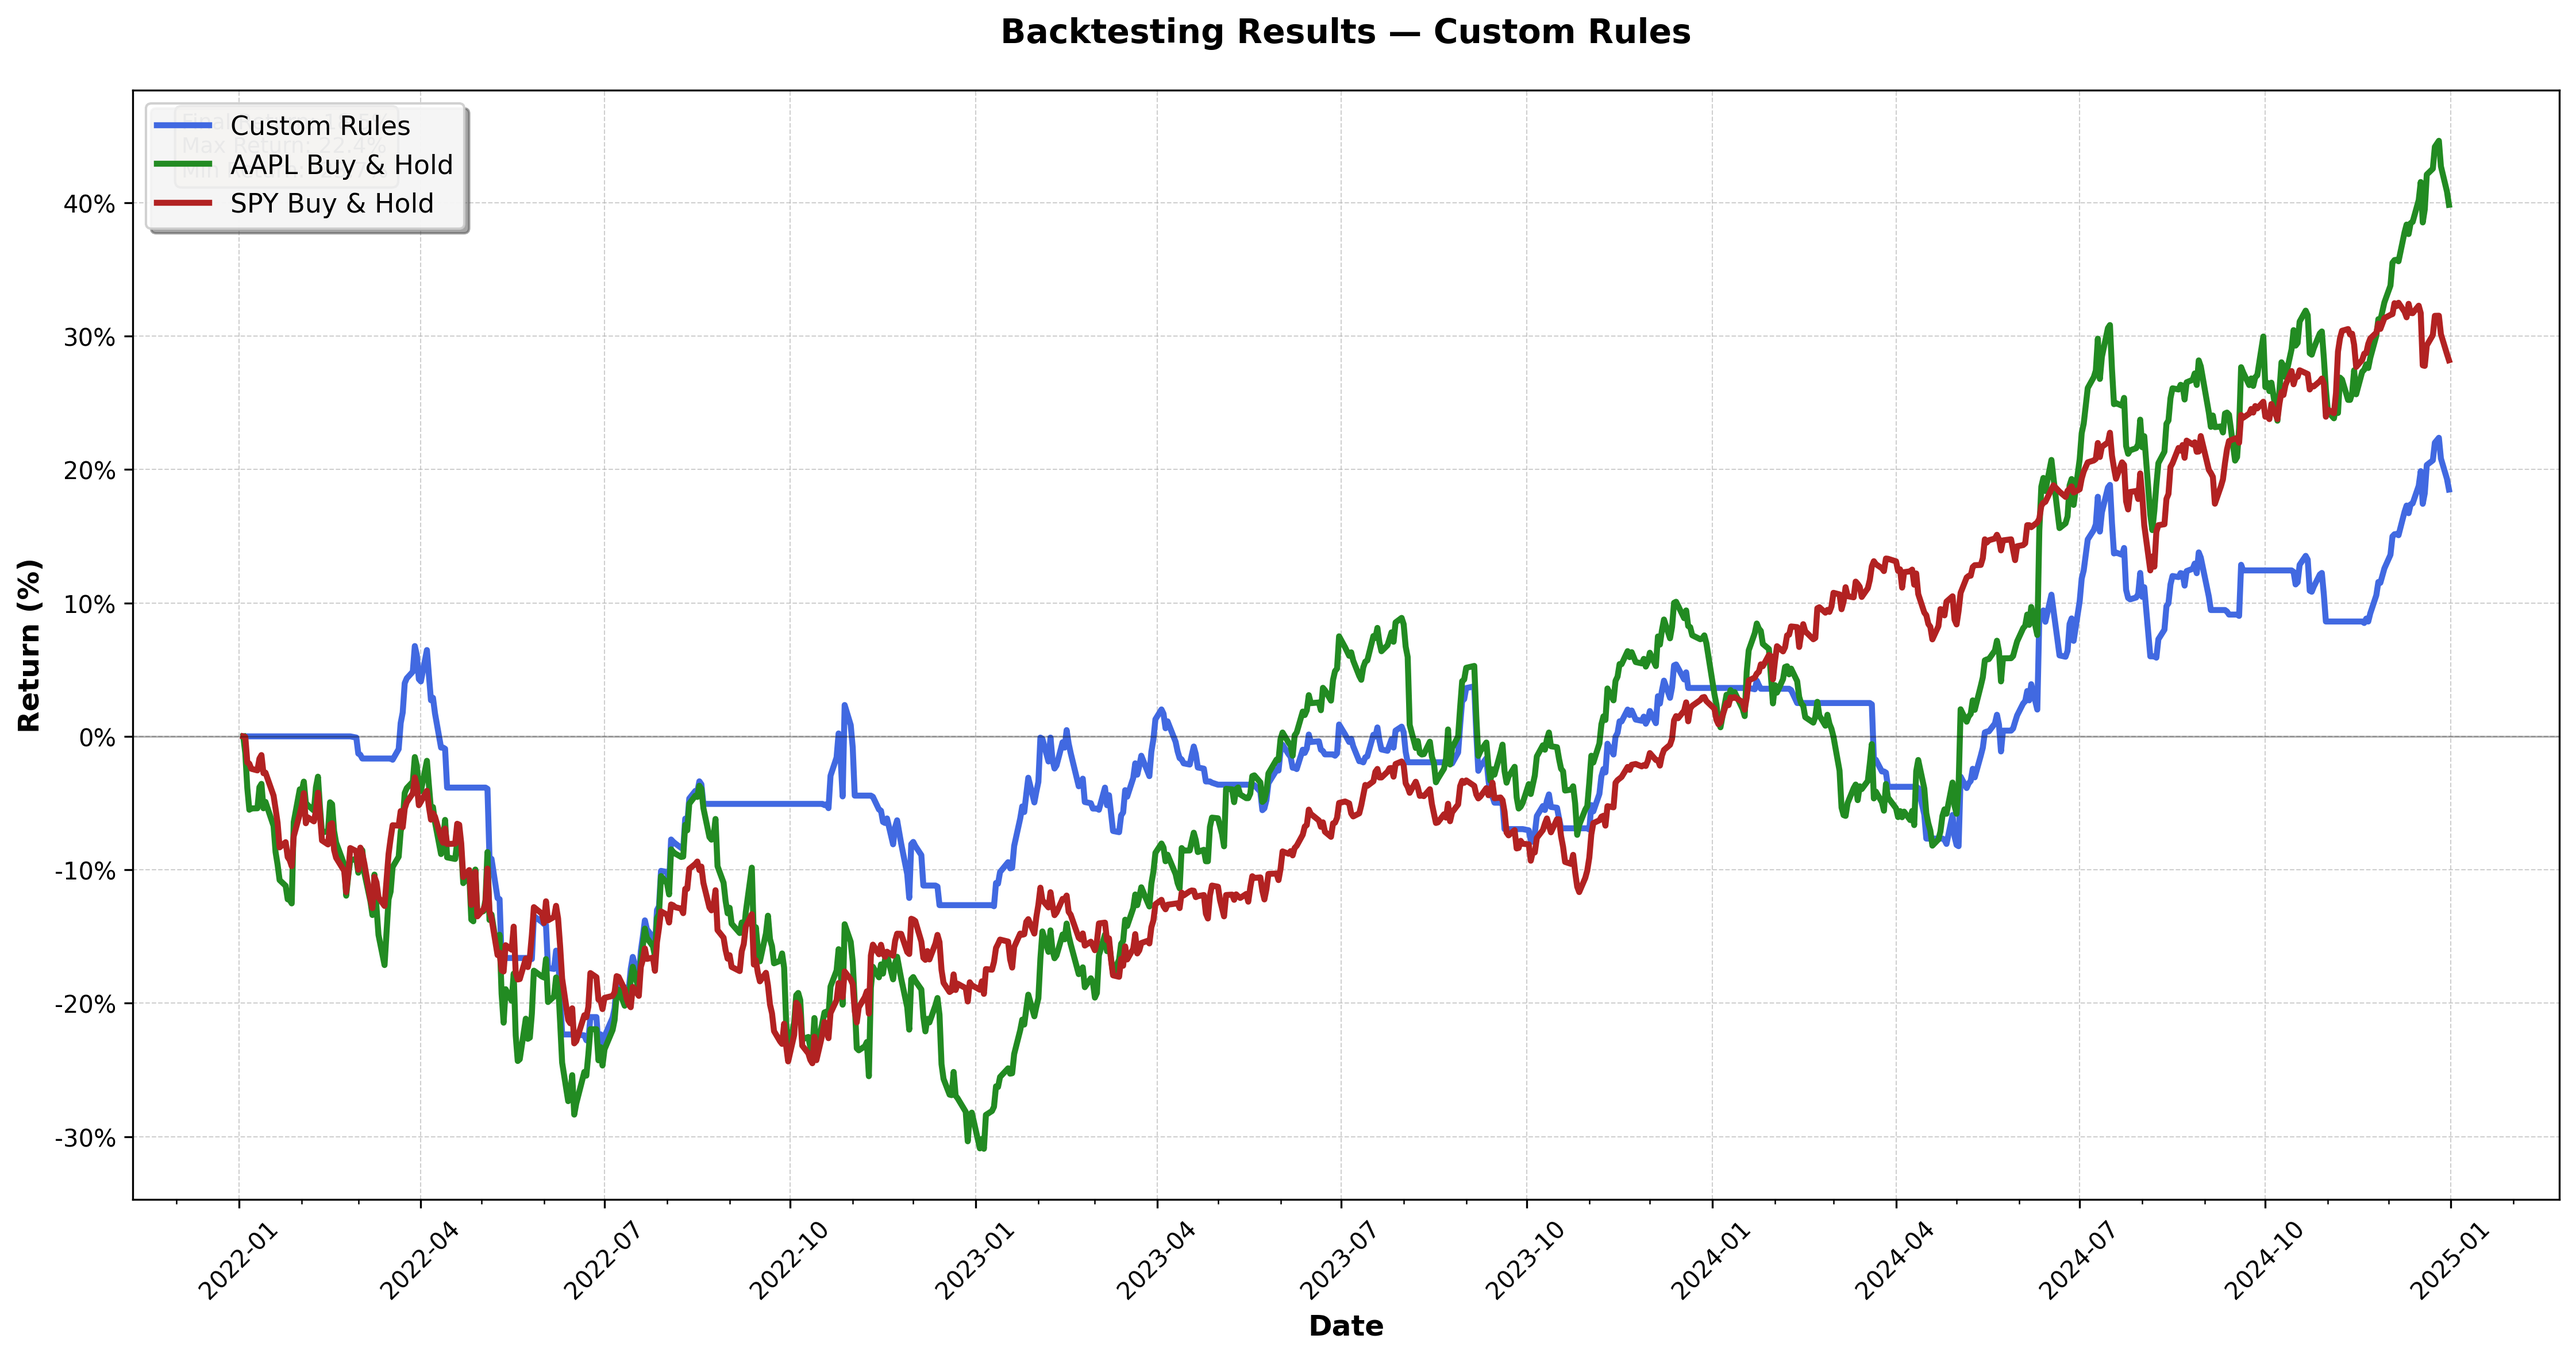
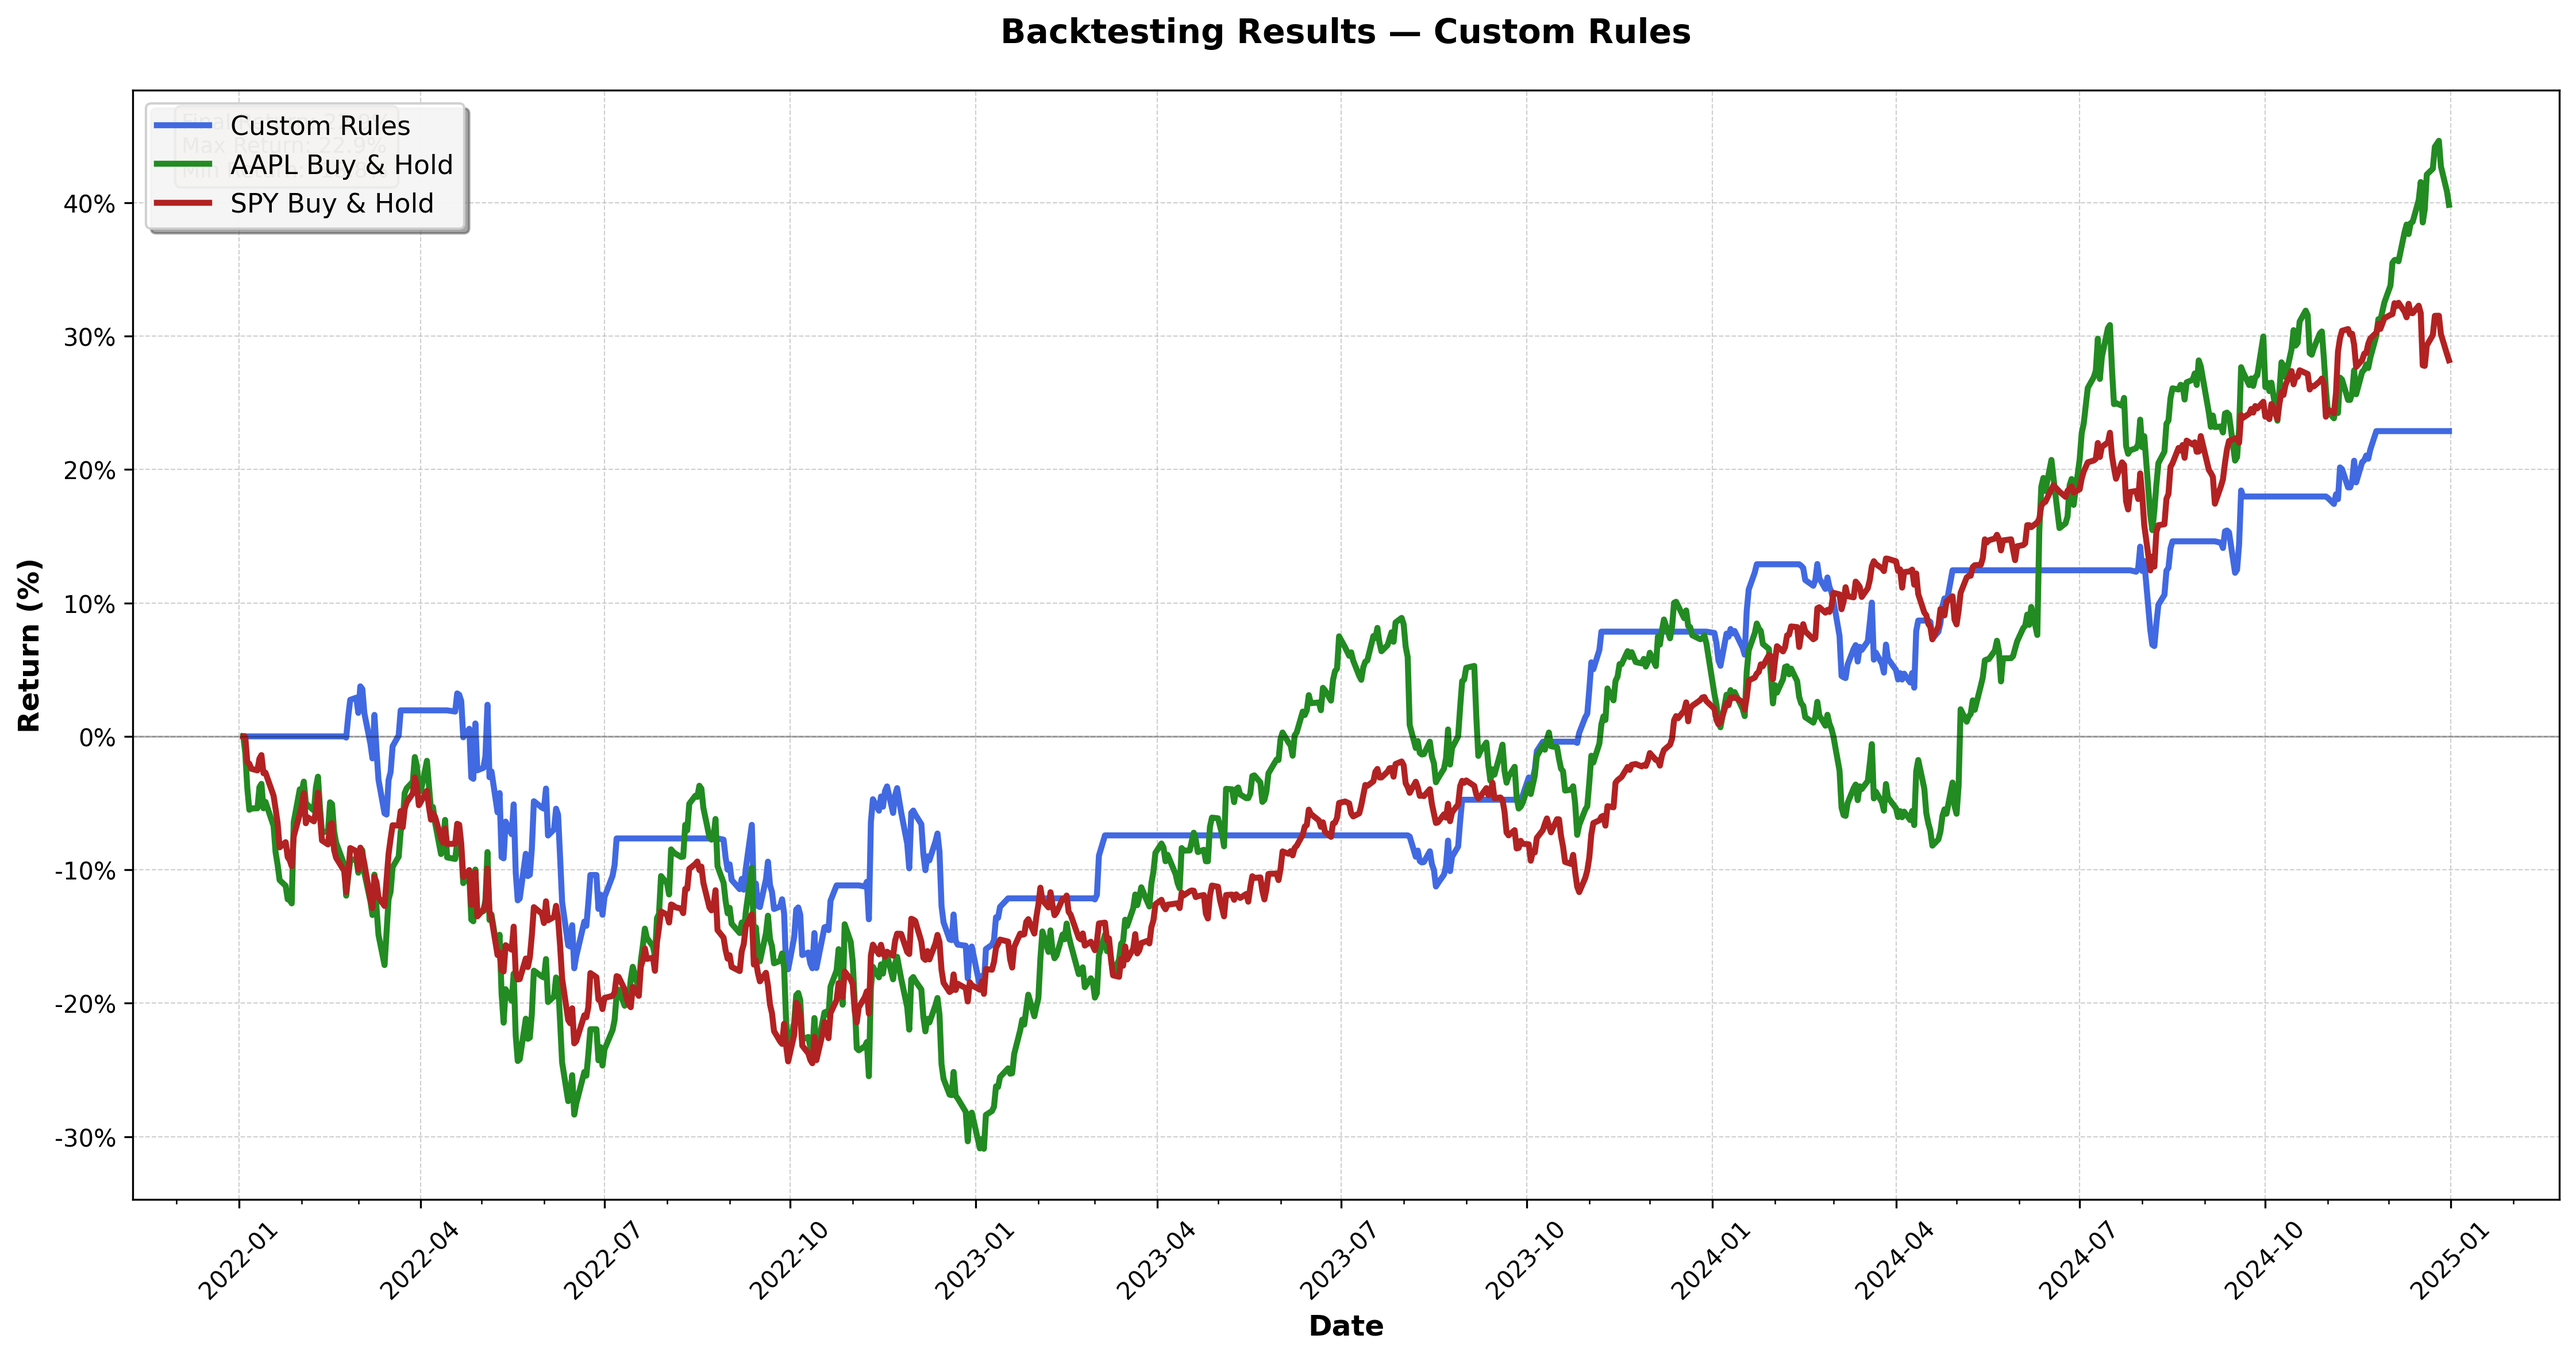
add cci

diff --git a/app/test_backtest.py b/app/test_backtest.py
@@ -197,44 +197,32 @@ def create_performance_plot(plot_data, tickers, strategy_name):
 
 
 async def run():
-    """
-    Test Pure On-Balance Volume (OBV) strategy
+
     
-    OBV-Only Strategy Logic:
-    - Buy when: OBV is above its own moving average (rising trend)
-    - Sell when: OBV is below its own moving average (falling trend)
-    
-    This strategy uses ONLY the OBV indicator for all trading decisions.
-    """
-    print("="*60)
-    print("TESTING PURE OBV (ON-BALANCE VOLUME) STRATEGY")
-    print("Using ONLY OBV indicator for buy/sell signals")
-    print("="*60)
-    
-    obv_data = {
+    cci_data = {
         "tickers": ["AAPL"],
         "start_date": "2022-01-01", 
         "end_date": "2024-12-31",
         "buy_condition": [
-            {"name": "obv", "value": "obv_sma_20", "operator": "above"}  # OBV above its 20-day SMA (uptrend)
+            {"name": "cci", "value": -100, "operator": "below"}  # CCI below -100 (oversold)
         ],
         "sell_condition": [
-            {"name": "obv", "value": "obv_sma_20", "operator": "below"}  # OBV below its 20-day SMA (downtrend)
+            {"name": "cci", "value": 100, "operator": "above"}  # CCI above 100 (overbought)
         ],
-        "stop_loss": 8,   # 8% stop loss
-        "profit_taker": 15  # 15% profit target
+        "stop_loss": 5,   # 5% stop loss
+        "profit_taker": 10  # 10% profit target
     }
     
-    
     await testing_strategy(
-        obv_data["tickers"],
-        start_date=obv_data["start_date"], 
-        end_date=obv_data["end_date"],
-        buy_conditions=obv_data.get("buy_condition", []),
-        sell_conditions=obv_data.get("sell_condition", []),
-        stop_loss=obv_data.get("stop_loss"),
-        profit_taker=obv_data.get("profit_taker")
+        cci_data["tickers"],
+        start_date=cci_data["start_date"], 
+        end_date=cci_data["end_date"],
+        buy_conditions=cci_data.get("buy_condition", []),
+        sell_conditions=cci_data.get("sell_condition", []),
+        stop_loss=cci_data.get("stop_loss"),
+        profit_taker=cci_data.get("profit_taker")
     )
+
 
 
 
